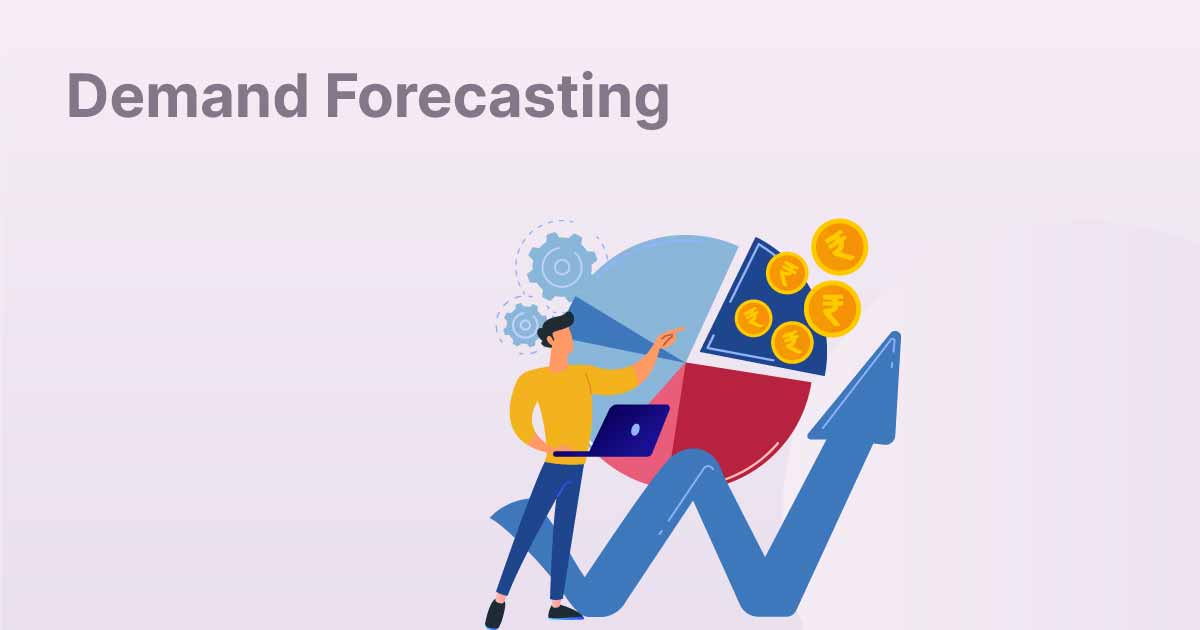
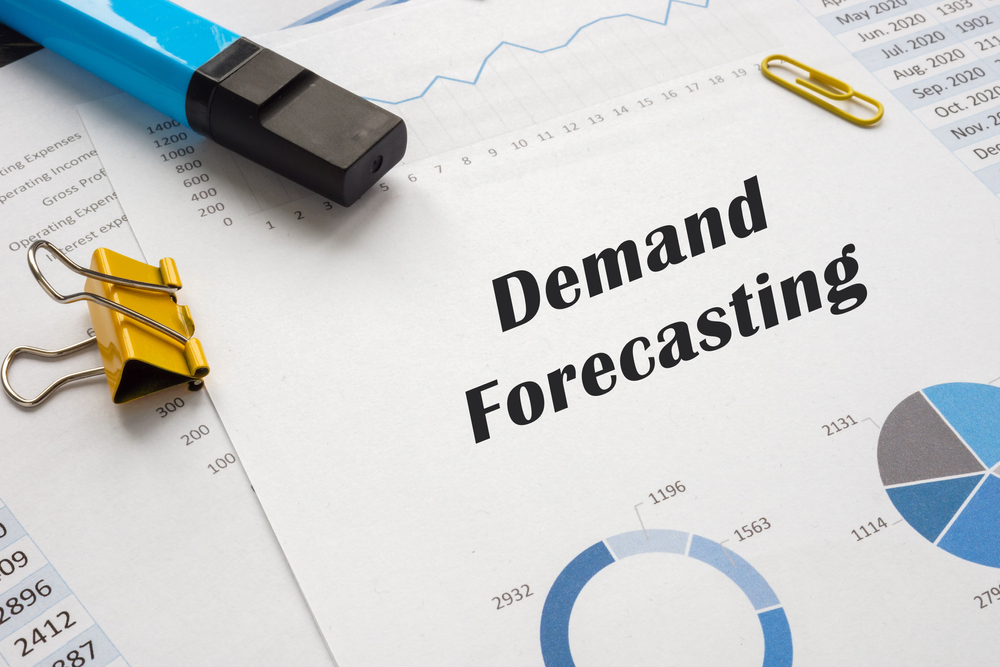
terminer la page d acceuil

diff --git a/Prévision.py b/Prévision.py
@@ -163,10 +163,14 @@ Cette application a été développée dans le cadre de mon **Projet de Fin d'É
 col1, col2 = st.columns([1,2])
 
 with col1:
-    img = Image.open("images/dmnd-forcast.JPG")
-    img = img.resize((200, 200))
+    #img = Image.open("images/dmnd-forcast.JPG")
+    #img = img.resize((200, 200))
 
-    st.image(img)
+    #st.image(img)
+    st.image(
+    "images/dmnd-forcast.JPG",
+    use_container_width=True
+    )
 
 with col2:
     st.markdown("""  